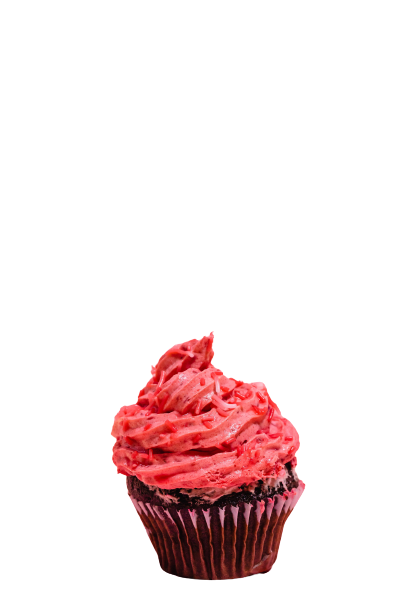
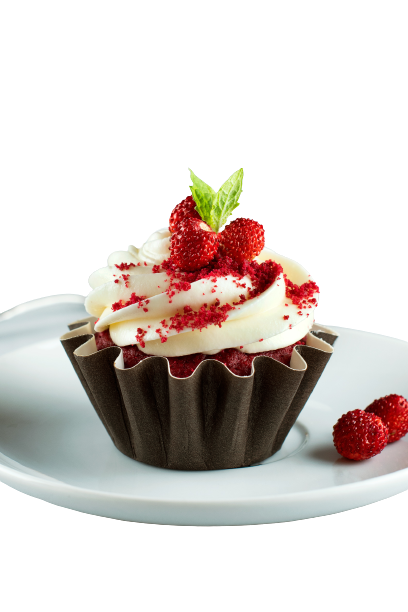
i changed the cupcakes image and fixed the font-size

diff --git a/components/services/List.vue b/components/services/List.vue
@@ -1,14 +1,36 @@
 <template>
-  <div class="px-4 py-2 shadow-xl bg-gradient-to-t from-pink-200 to-pink-100 mt-10 rounded-3xl">
+  <div
+    class="
+      px-4
+      py-2
+      shadow-xl
+      bg-gradient-to-t
+      from-pink-200
+      to-pink-100
+      mt-10
+      rounded-3xl
+    "
+  >
     <div class="flex justify-center items-center mt-3">
       <div class="">
-        <h1 class="text-black font-bold">{{ title }}</h1>
-        <button
-          class="flex justify-between items-center border border-black p-2 mt-4"
-        >
-          <div class="text-black text-base">Learn More</div>
-          <img :src="require('@/assets/icons/Right.png')" class="w-4 ml-2" />
-        </button>
+        <h1 class="text-black text-xl lg:text-3xl font-bold">{{ title }}</h1>
+        <a href="./menupage">
+          <button
+            class="
+              flex
+              justify-between
+              items-center
+              hover:bg-pink-400 hover:text-black hover:border-pink-400
+              rounded-md
+              border border-black
+              p-2
+              mt-4
+            "
+          >
+            <div class="text-black text-base">Learn More</div>
+            <img :src="require('@/assets/icons/Right.png')" class="w-4 ml-2" />
+          </button>
+        </a>
       </div>
       <div class="ml-2 md:ml-4">
         <div class="block w-44 rounded-full mx-auto overflow-hidden">
